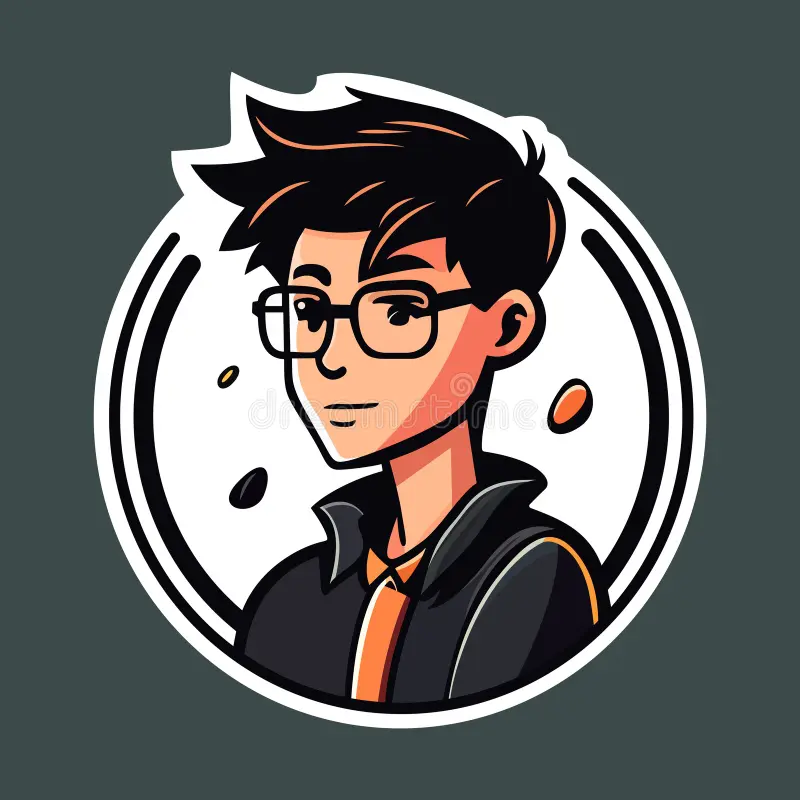
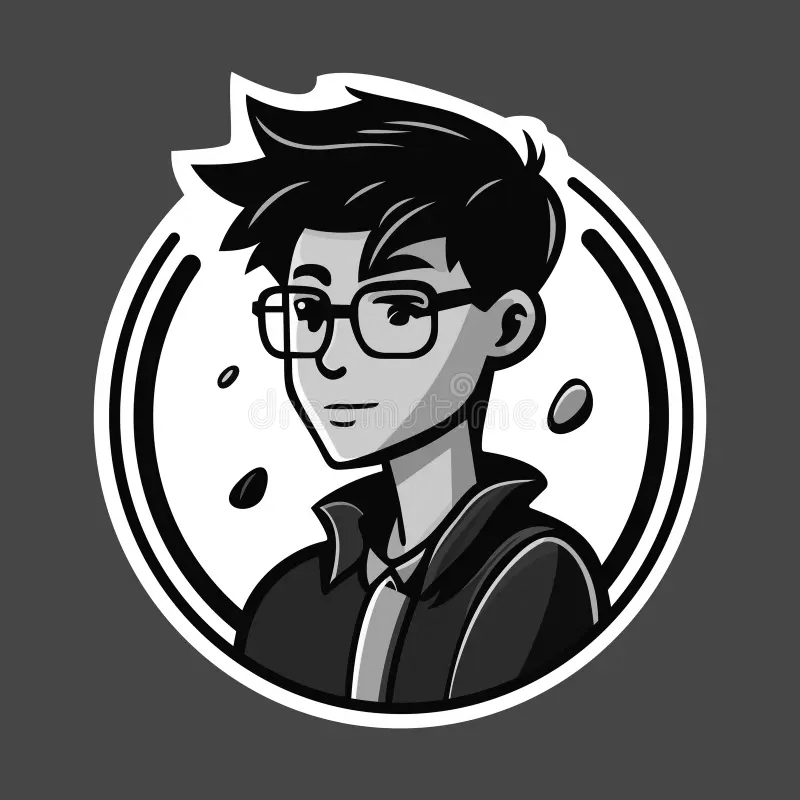
Add updates and cases

diff --git a/templates/index.html b/templates/index.html
@@ -56,6 +56,21 @@
       </div>
     </div>
   </nav>
+  
+  {% with messages = get_flashed_messages(with_categories=true) %}
+  {% if messages %}
+  
+    {% for category, message in messages %}
+   
+    <div class="alert alert-success" role="alert">
+      <strong>Success! </strong> {{ message|safe }}
+    </div>
+    
+    {% endfor %}
+  
+  {% endif %}
+  {% endwith %}
+
   <div class="container my-4">
     <h1 class="fs-2 text">Demoo-Edits -- Edit Your File Here</h1>
 

diff --git a/main.py b/main.py
@@ -10,16 +10,39 @@ UPLOAD_FOLDER = 'uploads'
 ALLOWED_EXTENSIONS = {'webp', 'png', 'jpg', 'jpeg', 'gif'}
 
 app = Flask(__name__)
+app.secret_key = 'super secret key'
 app.config['UPLOAD_FOLDER'] = UPLOAD_FOLDER
 
 def allowed_file(filename):
     return '.' in filename and \
            filename.rsplit('.', 1)[1].lower() in ALLOWED_EXTENSIONS
 
-def proceesImage(filename, operation):
     # Process the image
+def processImage(filename, operation):
     print(f'The operation is {operation} and the file is {filename}')
+    img = cv2.imread(f'uploads/{filename}')
+    match operation:
+        case "cgrey":
+            imgProcessed = cv2.cvtColor(img, cv2.COLOR_BGR2GRAY)
+            new_filename = f'static/{filename}'
+            cv2.imwrite(f'static/{filename}', imgProcessed)
+            return new_filename
+        case "cwebp":
+            new_filename = f'static/{filename.split('.')[0]}.webp'
+            cv2.imwrite(new_filename, img)
 
+            return new_filename
+        case "cjpg":
+            new_filename = f'static/{filename.split('.')[0]}.jpg'
+            cv2.imwrite(new_filename, img)
+
+            return new_filename
+        case "cpng":
+            new_filename = f'static/{filename.split('.')[0]}.png'
+            cv2.imwrite(new_filename, img)
+
+            return new_filename
+    pass
 @app.route("/")
 def home():
     return render_template("index.html")
@@ -51,7 +74,8 @@ def edit():
         if file and allowed_file(file.filename):
             filename = secure_filename(file.filename)
             file.save(os.path.join(app.config['UPLOAD_FOLDER'], filename))
-            proceesImage(filename, operation)
+            new = processImage(filename, operation)
+            flash(f"File {filename} proccessed successfully. <a href='/{new}' target='_blank'> Download here</a>") 
 
             return render_template("index.html")
 
